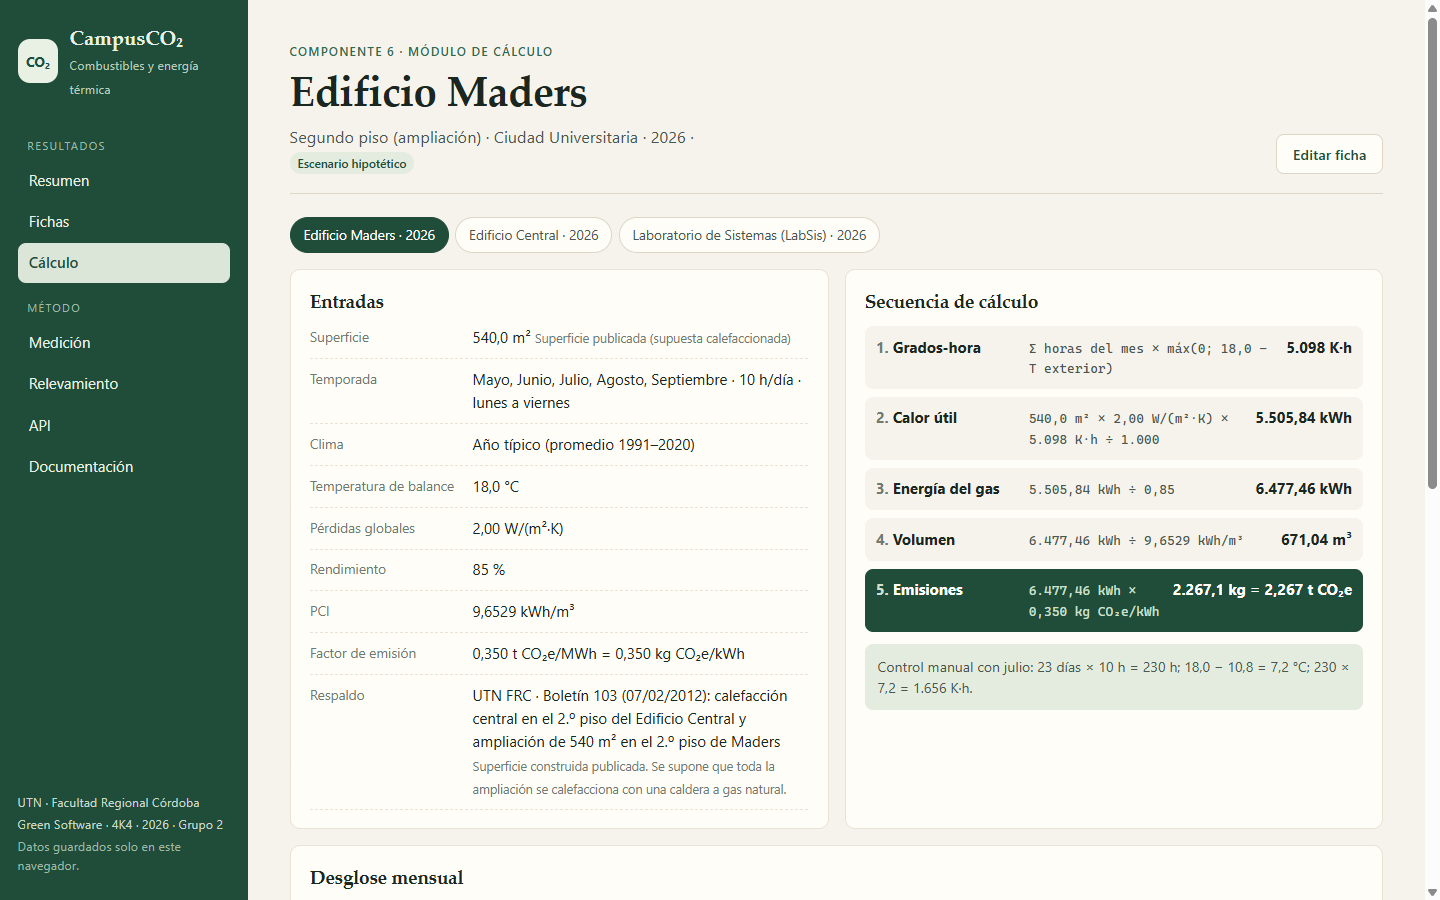
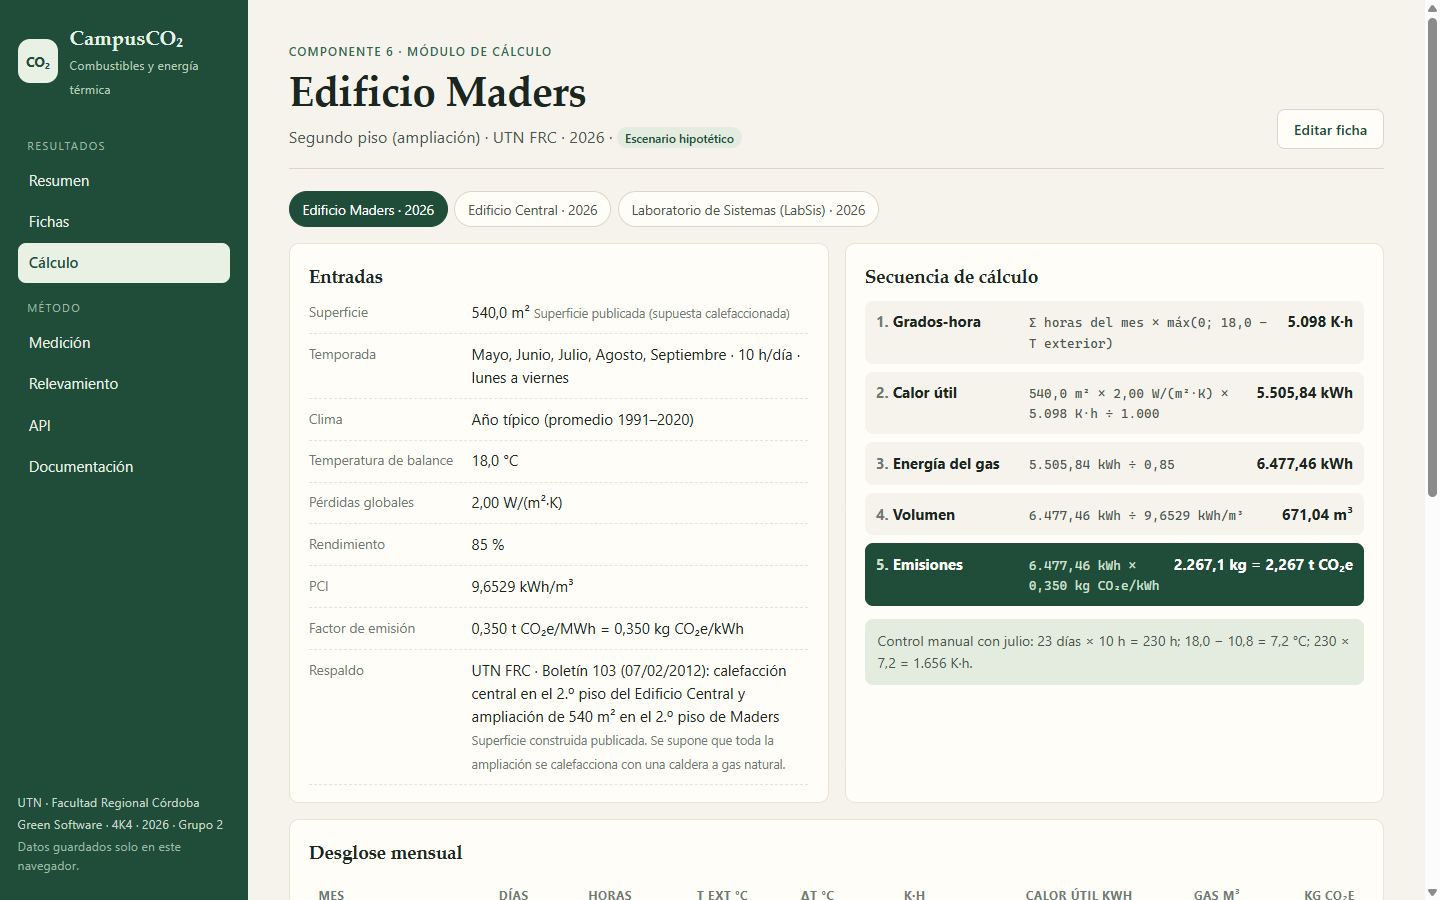
fix: la sede de las fichas es UTN FRC
Actualiza fichas iniciales, texto del resumen y capturas; nueva clave
de almacenamiento para que los navegadores recarguen los escenarios.

diff --git a/js/views/resumen.js b/js/views/resumen.js
@@ -80,7 +80,7 @@ export function renderResumen(all, f, layout = { chartW: 560, wideW: 1040 }) {
   <header class="page-head">
     <div><p class="eyebrow">Combustibles y energía térmica · Alcance 1 · Período anual ${year}</p>
     <h1>Huella de la calefacción a gas</h1>
-    <p class="lede">Tres sectores de Ciudad Universitaria modelados como <strong>escenarios hipotéticos</strong>: no existen registros públicos de consumo de gas por edificio, así que el volumen se estima con superficie, calendario y clima.</p></div>
+    <p class="lede">Tres sectores de la UTN FRC modelados como <strong>escenarios hipotéticos</strong>: no existen registros públicos de consumo de gas por edificio, así que el volumen se estima con superficie, calendario y clima.</p></div>
     <div class="head-actions"><a class="button" href="#carga">Nueva ficha</a><button class="button ghost" type="button" data-export="csv">Exportar CSV</button></div>
   </header>
   ${filtersBar(years, { ...f, year })}

diff --git a/js/data.js b/js/data.js
@@ -93,7 +93,7 @@ export const SENSITIVITY = Object.freeze({
 export const SEED_RECORDS = Object.freeze([
   Object.freeze({
     id: 'maders-2p-2026',
-    site: 'Ciudad Universitaria',
+    site: 'UTN FRC',
     building: 'Edificio Maders',
     sector: 'Segundo piso (ampliación)',
     year: 2026,
@@ -114,7 +114,7 @@ export const SEED_RECORDS = Object.freeze([
   }),
   Object.freeze({
     id: 'central-2p-2026',
-    site: 'Ciudad Universitaria',
+    site: 'UTN FRC',
     building: 'Edificio Central',
     sector: 'Segundo piso',
     year: 2026,
@@ -135,7 +135,7 @@ export const SEED_RECORDS = Object.freeze([
   }),
   Object.freeze({
     id: 'labsis-2026',
-    site: 'Ciudad Universitaria',
+    site: 'UTN FRC',
     building: 'Laboratorio de Sistemas (LabSis)',
     sector: 'Seis salas de práctica',
     year: 2026,

diff --git a/js/views/fichas.js b/js/views/fichas.js
@@ -46,7 +46,7 @@ function roomRow(room = { name: '', length: '', width: '' }) {
 
 export function blankRecord() {
   return {
-    id: '', site: 'Ciudad Universitaria', building: '', sector: '', year: 2026, areaOrigin: 'hipotetica', rooms: [], area: '',
+    id: '', site: 'UTN FRC', building: '', sector: '', year: 2026, areaOrigin: 'hipotetica', rooms: [], area: '',
     months: [...DEFAULTS.months], hoursPerDay: DEFAULTS.hoursPerDay, daysPerWeek: DEFAULTS.daysPerWeek, balanceTemp: DEFAULTS.balanceTemp,
     lossCoef: DEFAULTS.lossCoef, efficiency: DEFAULTS.efficiency, pci: Number(DEFAULTS.pci.toFixed(4)), climate: DEFAULTS.climate,
     heatPumpCop: DEFAULTS.heatPumpCop, source: '', notes: '',

diff --git a/tests/domain.test.js b/tests/domain.test.js
@@ -102,7 +102,7 @@ test('repositorio: guardar, editar, eliminar y restablecer', () => {
   assert.equal(repo.findById('nueva').sector, 'Primer piso');
   repo.remove('nueva');
   assert.equal(repo.findAll().length, 3);
-  mem.set('campusco2.g2.fichas.v1', '{roto');
+  mem.set('campusco2.g2.fichas.v2', '{roto');
   const recovered = createRepository(storage);
   assert.equal(recovered.findAll().length, 3);
   assert.match(recovered.warning, /dañados/);

diff --git a/js/store.js b/js/store.js
@@ -1,7 +1,7 @@
 // Repositorio de fichas sobre localStorage (findAll, findById, save, remove, reset).
 import { SEED_RECORDS } from './data.js';
 
-const KEY = 'campusco2.g2.fichas.v1';
+const KEY = 'campusco2.g2.fichas.v2';
 const API_LOG_KEY = 'campusco2.g2.api.v1';
 
 function safeStorage() {
